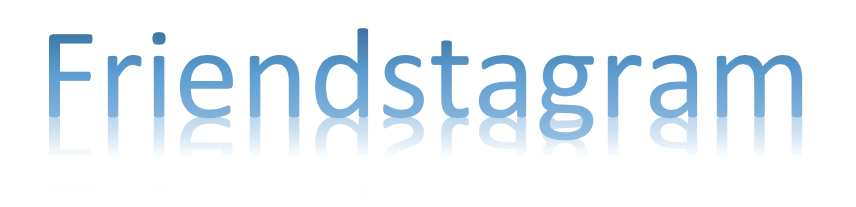
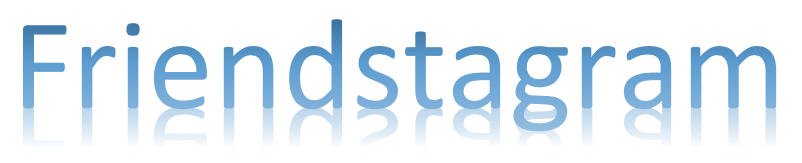
new search

Changed region(s): [[0.0312, 0.1227, 0.9663, 0.8589], [0.1559, 0.1227, 0.2182, 0.2147]]

diff --git a/web/fghome.php b/web/fghome.php
@@ -83,10 +83,14 @@
 			
 			#title {
 				display: block;
+				margin-top: 10px;
 				margin-left: auto;
 				margin-right: auto;
+				margin-bottom: 20px;
+				border-radius: 5px;
 				max-width: 50%;
 				height: auto;
+				box-shadow: 0 4px 8px 0 rgba(0, 0, 0, 0.2), 0 6px 20px 0 rgba(0, 0, 0, 0.19);
 			}
 
 			nav {
@@ -265,7 +269,7 @@
 		</style>
 	</head>
 	<body>
-		<img id="title" src="Friendstagram.png" alt="York State University">
+		<a href="fghome.php"><img id="title" src="Friendstagram.png" alt="Friendstagram"></a>
 		<div class="container">
 			<nav class="navbar navbar-expand-lg navbar-light bg-light">
 				<a class="navbar-brand" href="fghome.php">FG</a>
